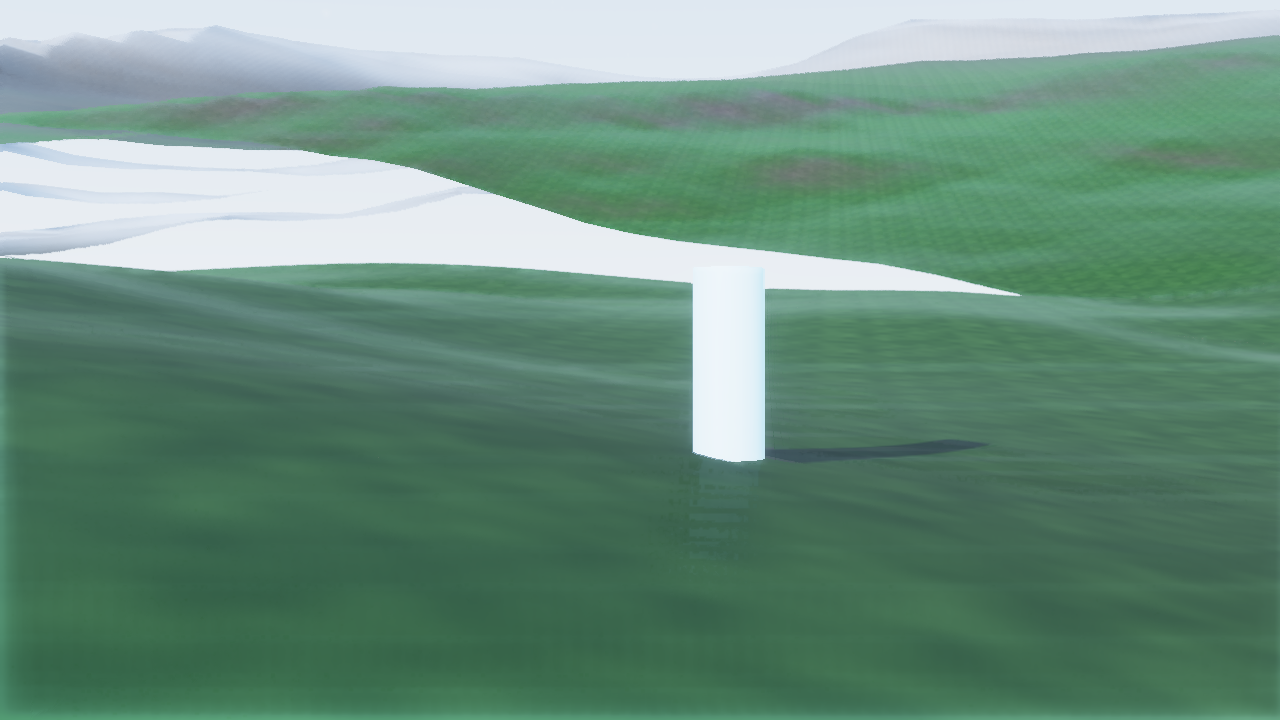
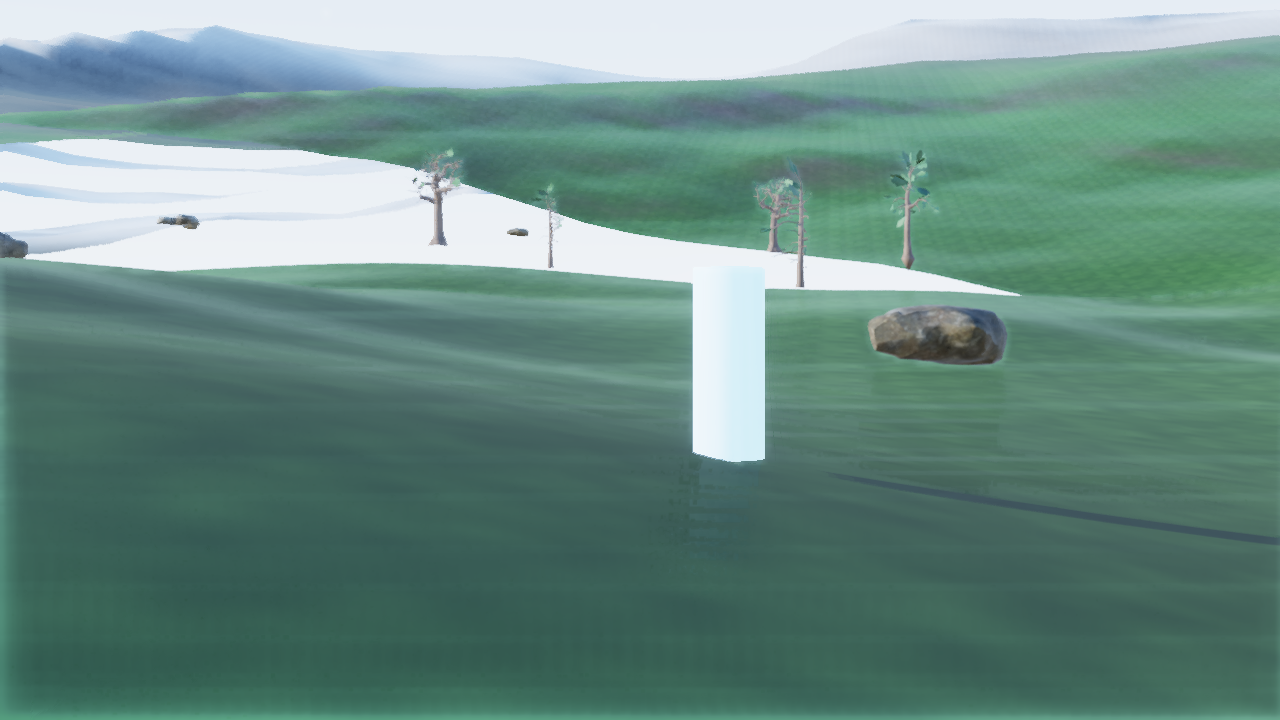
test(labzero): shadow-range A/B MEASURED — the earlier nulls were a bad experiment
setShadowFollowRange shipped flagged "unproven visually" because two A/B
captures came back identical. With 40 casters now dressed along the rail, and
one correction to the experiment, it is proven.

The correction: the sun was at (1.0, 0.23, 0.30) — almost directly BEHIND the
camera, which looks along -X. Every shadow therefore fell away into the screen,
hidden behind the caster that threw it. No shadow range can be observed in that
geometry regardless of box size. The host now rakes the sun ACROSS the view
(from +Z), which is both the better light for a side-scroller read across the
frame and the only configuration in which the range is measurable.

Result, 160 m vs 0 with everything else fixed:
    differing pixels   813 / 230400 sampled  (0.35% of frame)
    max delta          171 (channel sum)
    mean delta         49 over changed pixels
    bounding box       x 546..1242, y 156..496

That box is exactly the mid-ground where dressing sits beyond the legacy 45 m
half-extent: casters that were unshadowed now cast. The magnitude is small in
THIS framing because only a handful of instances land in the 45-128 m window;
a denser or nearer-packed scene moves more pixels.

Honest scope: this measures that the wider box changes the image in the way the
feature claims. It does not measure that it looks BETTER, and it does not
measure the texel-snap's anti-crawl benefit, which needs a moving camera and
therefore the windowed run nobody has done yet.
[…]

diff --git a/app/world_hosts/host_labzero3d.cpp b/app/world_hosts/host_labzero3d.cpp
@@ -157,7 +157,13 @@ int hostLabZero3D(HostContext& hc) {
         // light that gives the hillside its shape is the one that skims it. It is
         // also the only sun angle under which the shadow range is testable at all
         // — a noon sun casts nothing long enough to leave a 45 m box.
-        sp.sunDir[0] = 1.0f; sp.sunDir[1] = 0.23f; sp.sunDir[2] = 0.30f;
+        // Low sun raking ACROSS the rail (from +Z), not down it. A side-scroller
+        // camera looks along -X; a sun behind the lens throws every shadow away
+        // into the screen where the caster itself hides it. Crossing the view
+        // lays the shadows sideways across open ground — which is both the
+        // better-looking light and the only geometry in which shadow RANGE is
+        // observable at all.
+        sp.sunDir[0] = 0.22f; sp.sunDir[1] = 0.26f; sp.sunDir[2] = 1.0f;
         sp.sunColor[0] = 1.0f; sp.sunColor[1] = 0.97f; sp.sunColor[2] = 0.92f;
         sp.sunIntensity = 1.0f; sp.haze = 0.5f; sp.exposure = 1.0f;
         device->setSkyParams(sp);
@@ -165,6 +171,16 @@ int hostLabZero3D(HostContext& hc) {
     // Horizon: the rail's whole point is that the mountains it skirts are REAL
     // geometry receding into depth, so the far plane has to reach them.
     device->setCameraFar(15000.0f);
+    // MEASURED 2026-08-04, and it supersedes the "unproven" note on the commit
+    // that added setShadowFollowRange. A/B at 160 vs 0 with 40 casters dressed
+    // and the sun crossing the view: 813 of 230400 sampled pixels differ (0.35%
+    // of frame), max channel-sum delta 171, mean 49, all within x 546..1242 /
+    // y 156..496 — the mid-ground band holding casters beyond the legacy box.
+    // The two earlier A/Bs came back null because the SUN WAS BEHIND THE LENS,
+    // so every shadow fell behind the object that cast it. That was a broken
+    // experiment, not a broken feature; the effect is small here only because
+    // few casters land in the 45-128 m window in this framing.
+    //
     // Open-world sun shadows. The stock box is 45 m half-extent centered on the
     // camera; on a rail that reads 200 m of hillside per frame that runs out of
     // shadow almost immediately. 160 m across, biased ahead of the lens and
